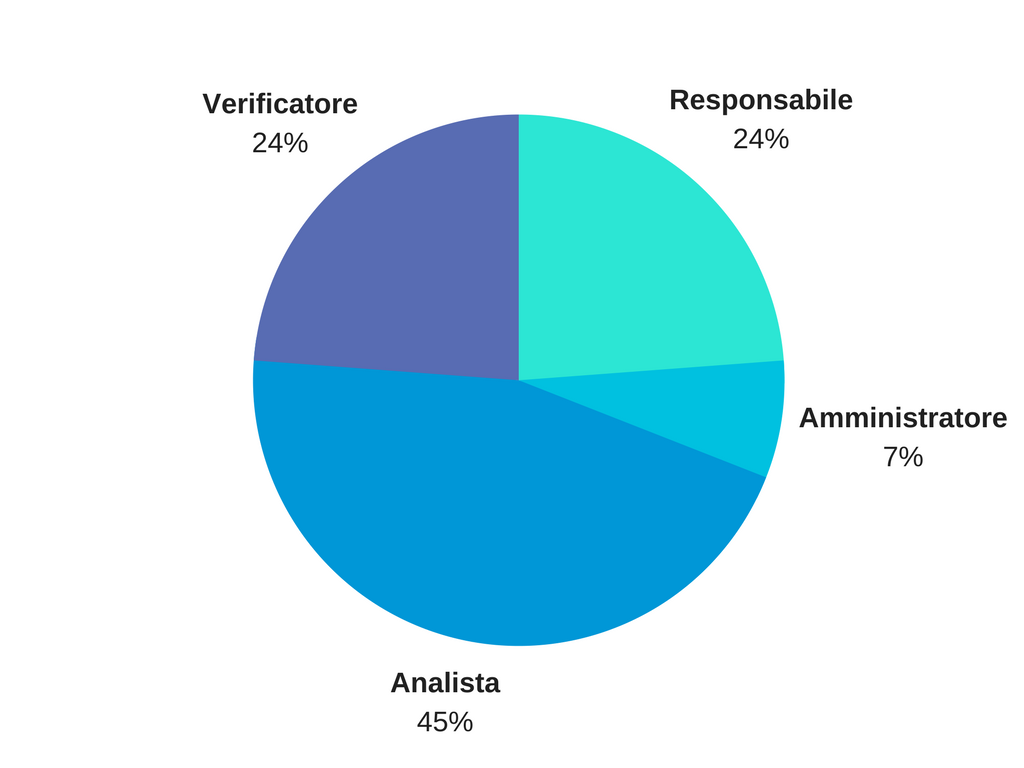
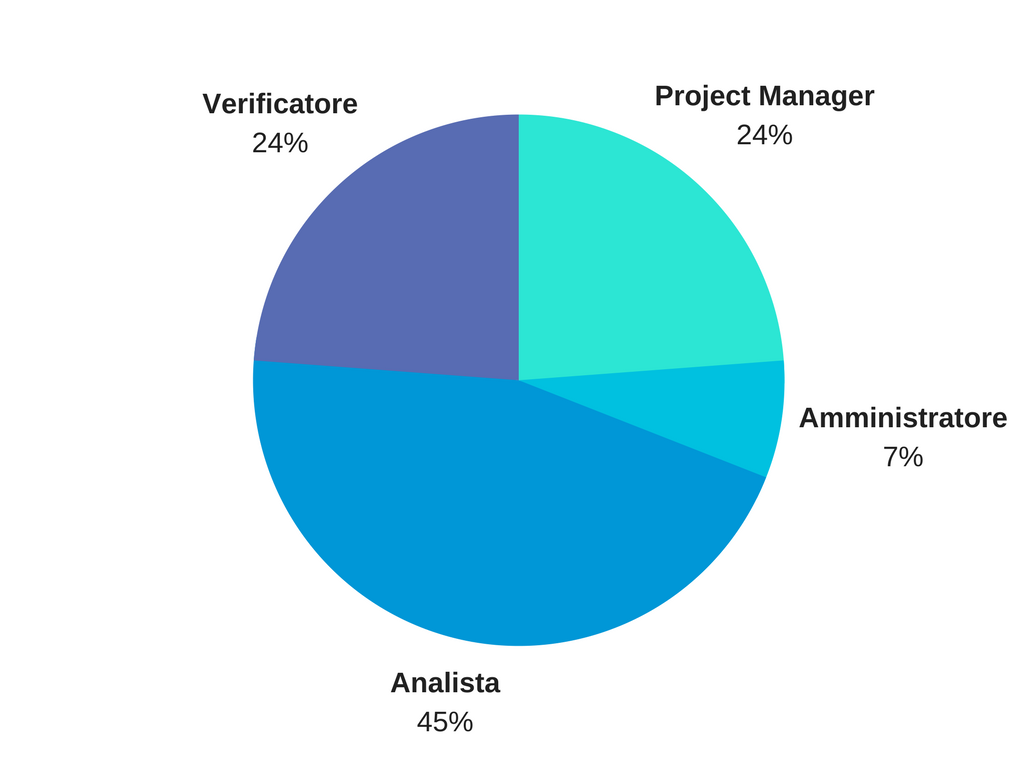
Immagini PDP, correz parziali NDP

Changed region(s): [[0.625, 0.0938, 0.8438, 0.1875]]

diff --git a/Docs/RR/NormeDiProgetto/Res/Sezioni/ProcessiPrimari.tex b/Docs/RR/NormeDiProgetto/Res/Sezioni/ProcessiPrimari.tex
@@ -3,8 +3,8 @@
 \subsection{Fornitura}
 	
 	\subsubsection{Scopo}
-	Lo scopo di questa attività è quello di fornire concretamente il prodotto software proposto dall'azienda IKS s.r.l. e avente come committenti il Prof. Tullio Vardanega e il Prof. Riccardo Cardin.
-	In questa sezione vengono trattate le norme, dalle più triviali alle più importanti, inerenti alla progettazione, lo sviluppo e la consegna del prodotto \textcolor{red}{"Set di plugins per Kibana"}.
+	Lo scopo di questa attività è quello di fornire il prodotto software proposto dall'azienda IKS S.r.l. e avente come committenti il Prof. Tullio Vardanega e il Prof. Riccardo Cardin.
+	In questa sezione vengono trattate le norme, dalle più triviali alle più importanti, inerenti alla progettazione, lo sviluppo e la consegna del prodotto \emph{Havana}.
 	Al fine di perseguire nel miglior modo questo traguardo intendiamo collaborare con i referenti dell'azienda, affrontando diversi punti fondamentali così da produrre un software completo e conforme alle richieste. Nello specifico è necessario:
     \begin{itemize}
 	\item Stimare i costi del prodotto finale;
@@ -15,19 +15,19 @@
 	\subsubsection{Attività} 
 		\paragraph{Studio di fattibilità} \Spazio
 		Sono state organizzate diverse riunioni al fine di permettere ai membri del gruppo di scambiarsi opinioni sui capitolati proposti. 
-		Abbiamo valutato il capitolato secondo diversi criteri:
+		Abbiamo valutato i capitolati secondo diversi criteri:
 		\begin{itemize}
-			\item \textbf{Dominio tecnologico:} È stata presa in considerazione la conoscenza attuale delle tecnologie richieste per portare a termine i vari capitolati, in base anche ad esperienze passate avute con problemi simili;
+			\item \textbf{Dominio tecnologico:} è stata presa in considerazione la conoscenza attuale delle tecnologie richieste per portare a termine i vari capitolati, in base anche ad esperienze passate avute con problemi simili;
 			\item \textbf{Individuazione rischi:} sono state analizzate le varie difficoltà che si potrebbero incontrare durante la realizzazione dei vari capitolati considerando in modo particolare la mancanza di conoscenze adeguate relative alle tecnologie necessarie per realizzare i capitolati.
-		\end{itemize}  
+		\end{itemize}  \textit{}
 		\paragraph{Piano di Progetto} \Spazio
 		Il \emph{Project Manager} affiancato dall'\emph{Amministratore} deve stilare un piano da seguire per la realizzazione del progetto.
 		Il documento deve coprire le seguenti tematiche:
 		\begin{itemize}
-		\item \textbf{Analisi dei rischi:} si analizzano nel dettaglio i rischi che si potrebbero presentare durante lo svolgimento del progetto, capendo con quale probabilità potrebbero accadere e qual è il livello di gravità di ogni rischio;
+		\item \textbf{Analisi dei rischi:} si analizzano nel dettaglio i rischi che si potrebbero presentare durante lo svolgimento del progetto, determinando con quale probabilità potrebbero accadere e qual è il livello di gravità di ogni rischio;
 		\item \textbf{Pianificazione:} si pianificano le attività da svolgere nel corso del progetto fornendo delle scadenze temporali precise;
-		\item \textbf{Preventivo:} si stima, secondo la pianificazione, la quantità di lavoro necessaria per portare a termine ogni fase, in modo tale da riuscire a proporre un preventivo finale per il costo totale del progetto.
-		\end{itemize} 
+		\item \textbf{Preventivo:} si stima, con una pianificazione, la quantità di lavoro necessaria per portare a termine ogni fase, in modo tale da riuscire a proporre un preventivo finale con il costo totale del progetto.
+		\end{itemize}
 		
 		\paragraph{Piano di Qualifica} \Spazio
 		Al \emph{Verificatore} è assegnato il compito di scegliere un metodo per la verifica e validazione del materiale realizzato dal team.
@@ -36,7 +36,7 @@
 		\item \textbf{Metodo di verifica:} vengono stabilite le procedure di controllo sulla qualità di processo e di prodotto;
 		\item \textbf{Metriche:} è necessario stabilire delle metriche oggettive per i documenti e i processi software;
 		\item \textbf{Gestione della revisione:} si devono stabilire delle modalità per comunicare le anomalie e le procedure per controllare la qualità di processo;
-		\item \textbf{Pianificazione collaudo:} è necessario definire dettagliatamente le metodologie di collaudo del progetto;
+		\item \textbf{Pianificazione test:} è necessario definire dettagliatamente le metodologie dei test a cui sarà sottoposto il progetto;
 		\item \textbf{Resoconto attività verifica:} alla fine di ogni attività svolta si devono riportare le metriche relative e un resoconto sulla verifica effettuata.
 		\end{itemize}
 	
@@ -60,14 +60,14 @@
 	\subsubsection{Attività}
 		\paragraph{Analisi dei requisiti}
 			\subparagraph{Scopo} \Spazio
-			Lo scopo di questa analisi è quella di elencare nel modo più preciso possibile, tutti i requisiti del progetto. 
+			Lo scopo di questa analisi è quello di elencare nel modo più preciso possibile, tutti i requisiti del progetto. 
 			I requisiti sono estrapolati da diverse fonti:
 				\begin{itemize}
 				\item Specifica del capitolato;
 				\item Incontri tenuti direttamente con il proponente;
 				\item Casi d'uso.
 			\end{itemize}
-		    Dopo aver svolto questo processo viene stilato in modo formale nel documento \textit{Analisi dei Requisiti}.
+		    Dopo aver svolto questo processo viene stilato in modo formale il documento \textit{Analisi dei Requisiti}.
 		    Quest'ultimo è steso dagli \emph{Analisti} e contiene una lista dei requisiti e dei casi d'uso.
 		    In questo modo sarà possibile effettuare e definire dei test di superamento del software. 
 
@@ -133,7 +133,7 @@
 			\subparagraph{Scopo}
 			\Spazio
 			L'attività di Progettazione ha lo scopo di definire e descrivere la progettazione ad alto livello dell'architettura del prodotto richiesto e specificarla descrivendo la progettazione di dettaglio. \\
-			Il responsabile di questa attività è il Progettista che, in funzione dei requisiti delineati nell'\textit{Analisi dei Requisiti}, deve redarre la \textit{Technology Baseline} e la \textit{Product Baseline} in modo da permettere di definire le linee guida da seguire durante l'attività di codifica.
+			Il responsabile di questa attività è il \emph{Progettista} che, in funzione dei requisiti delineati nell'\textit{Analisi dei Requisiti}, deve redarre la \textit{Technology Baseline} e la \textit{Product Baseline} in modo da permettere di definire le linee guida da seguire durante l'attività di codifica.
 			Per fare ciò deve avere una profonda conoscenza dell'intero processo di sviluppo del software.
 			Solo in questo modo può:
 			\begin{itemize}
@@ -146,18 +146,18 @@
 				\item \textbf{Tracciamento delle componenti:}
 				ogni requisito deve riferirsi al componente che lo soddisfa. Per fare ciò si utilizzerà SWEgo, un'applicazione web (descritta nella sezione \ref{sec:SWEgo}) utile nel tracciamento Use Case - Requisiti e nella generazione automatica dei diagrammi dei Casi d'Uso;
 				\item \textbf{Test di integrazione:}
-				i Progettisti devono definire delle classi di verifica per verificare che i componenti del sistema funzionino nella maniera prevista.	
+				i \emph{Progettisti} devono definire delle classi di verifica per verificare che i componenti del sistema funzionino nella maniera prevista.	
 				\item \textbf{Tracciamento classi:}
 				ogni requisito deve essere tracciato alle classi che lo soddisfano. Per fare ciò si utilizzerà SWEgo, un'applicazione web descritta nella sezione \ref{sec:SWEgo}.
 				\item \textbf{Test di unità:}
-				i Progettisti devono definire i test di unità necessari per verificare che i componenti del sistema funzionino nel modo previsto.
+				i \emph{Progettisti} devono definire i test di unità necessari per verificare che i componenti del sistema funzionino nel modo previsto.
 			\end{itemize}
 		
 		
 			\subparagraph{Technology Baseline}
 			\Spazio
-			Questo documento deve descrivere la progettazione ad alto livello dell'architettura del software richiesto dal proponente attraverso la presentazione delle tecnologie, dei framework e delle librerie selezionate. \\
-			Inoltre il documento verrà accompagnato da un \textit{Proof of Concept}: un prototipo del prodotto finale che serve a dimostrare i funzionamenti di base e l'avanzamento del lavoro svolto. 
+			Questo documento descrive la progettazione ad alto livello dell'architettura del software richiesto dal proponente attraverso la presentazione delle tecnologie, dei framework e delle librerie selezionate. \\
+			Inoltre il documento verrà accompagnato da una \textit{Proof of Concept}: un prototipo del prodotto finale che serve a dimostrare il funzionamento di base e l'avanzamento del lavoro svolto. 
 
 			\subparagraph{Product Baseline}
 			\Spazio
@@ -170,7 +170,7 @@
 						\item \textbf{Diagrammi delle classi:} illustrano una collezione di elementi dichiarativi di un modello come classi e tipi, assieme ai loro contenuti e alle loro relazioni;
 						\item \textbf{Diagrammi dei package:}  raggruppamento di classi in una unità di livello più alto;
 						\item \textbf{Diagrammi di attività:} illustrano il flusso di operazioni relativo ad un'attività. Utilizzati soprattutto per descrivere la logica di un algoritmo;
-						\item \textbf{Diagrammi di sequenza:} descrivono una determinata sequenza di azioni dove tutte le scelte sono già effettuate. In pratica nel diagramma non compaiono scelte ne flussi alternativi.
+						\item \textbf{Diagrammi di sequenza:} descrivono una determinata sequenza di azioni dove tutte le scelte sono già effettuate. In pratica nel diagramma non compaiono scelte né flussi alternativi.
 					\end{itemize}
 					I diagrammi UML sono realizzati tramite il programma StarUML descritto nella sezione \ref{sec:StarUML}.
 					\item \textbf{Design Pattern:}
@@ -180,7 +180,7 @@
 		\paragraph{Codifica}
 			\subparagraph{Scopo} \Spazio
 			Questa attività ha come scopo l'effettiva implementazione del prodotto software richiesto. In questa fase dunque si concretizzano attraverso la codifica le funzionalità previste dai requisiti concordati.
-			L'attività deve rispettare quando imposto dai documenti \textit{Definizione di prodotto} e \textit{Piano di Qualifica}.
+			L'attività deve rispettare quando imposto dal documento \textit{Piano di Qualifica}.
 			\subparagraph{Stile di codifica} \Spazio
 			Al fine di garantire uniformità all'intera codebase, ciascun membro del gruppo è obbligato a rispettare le seguenti norme:
 			\begin{itemize}
@@ -203,7 +203,7 @@ if (a == 5) { // GOOD
 			
 			\item \textbf{Lunghezza linee di codice:} una riga di codice non deve superare i 100 caratteri, in caso contrario spezzare la riga di codice andando a capo;
 			
-			\item \textbf{Nomi:} i nomi delle funzioni e delle variabili devono essere significativi e devono cominciare con la lettera minuscola e seguire la notazione camel Case. I nomi delle classi devono avere la prima lettera maiuscola mentre i nomi delle costanti devono essere scritti interamente in maiuscolo;
+			\item \textbf{Nomi:} i nomi delle funzioni e delle variabili devono essere significativi e devono cominciare con la lettera minuscola e seguire la convenzione camelCase. I nomi delle classi devono avere la prima lettera maiuscola mentre i nomi delle costanti devono essere scritti interamente in maiuscolo;
 \begin{lstlisting}
 var foo; // BAD
 var profiledata // BAD
@@ -212,9 +212,9 @@ var profileData // GOOD
 			
 			\item \textbf{Lingua:} i nomi delle variabili i metodi le funzioni e i commenti vanno scritti in inglese;
 			
-			\item \textbf{Lunghezza metodi e funzioni:} il corpo dei metodi e delle funzioni non deve superare le 40 linee e i due gradi di indentazione. Se si superano tali limiti è un chiaro segno che la funzione / metodo necessita di essere riformattata in più funzioni. Gli unici metodi o funzioni ai quali è permesso ignorare questa norma sono quelli che contengono una componente logica troppo complicata per poter essere ulteriormente suddivisa in altri metodi o funzioni;
+			\item \textbf{Lunghezza metodi e funzioni:} il corpo dei metodi e delle funzioni non deve superare le 40 linee e i due gradi di indentazione. Se si superano tali limiti è un chiaro segno che la funzione/metodo necessita di essere riformattata in più funzioni. Gli unici metodi o funzioni ai quali è permesso ignorare questa norma sono quelli che contengono una componente logica troppo complicata per poter essere ulteriormente suddivisa in altri metodi o funzioni;
 			
-			\item \textbf{Numero di parametri per funzione: } una funzione non deve avere più di sei parametri;
+			\item \textbf{Numero di parametri per funzione:} una funzione non deve avere più di otto parametri;
 			
 			\item \textbf{Strutture di controllo:} le parentesi graffe per i costrutti che le prevedono devono essere sulle stessa linea del costrutto stesso. È prevista l'omissione delle graffe soltanto quando il corpo della struttura è di una sola riga;
 \begin{lstlisting}

diff --git a/Docs/RR/NormeDiProgetto/Res/Sezioni/Introduzione.tex b/Docs/RR/NormeDiProgetto/Res/Sezioni/Introduzione.tex
@@ -14,8 +14,9 @@ Il seguente documento ha l'obiettivo di esplicitare le norme, le convenzioni e l
 \subsection{Riferimenti}
 	\subsubsection{Normativi}
 		\begin{itemize}
-			\item \textbf{Verbale di incontro interno:} VE\_2017-12-06, VE\_2017-12-19
-			\item \textbf{Verbale di incontro esterno:}	VI\_2017-12-07, VI\_2017-12-20	
+			\item \textbf{ISO/IEC 12207:} \href{https://en.wikipedia.org/wiki/ISO/IEC\_12207}{https://en.wikipedia.org/wiki/ISO/IEC\_12207}
+			\item \textbf{Verbale di incontro interno:} \emph{VE\_2017-12-06}, \emph{VE\_2017-12-19}
+			\item \textbf{Verbale di incontro esterno:}	\emph{VI\_2017-12-07}, \emph{VI\_2017-12-20}	
 		\end{itemize}
 	\subsubsection{Informatici}
 	\begin{itemize}
